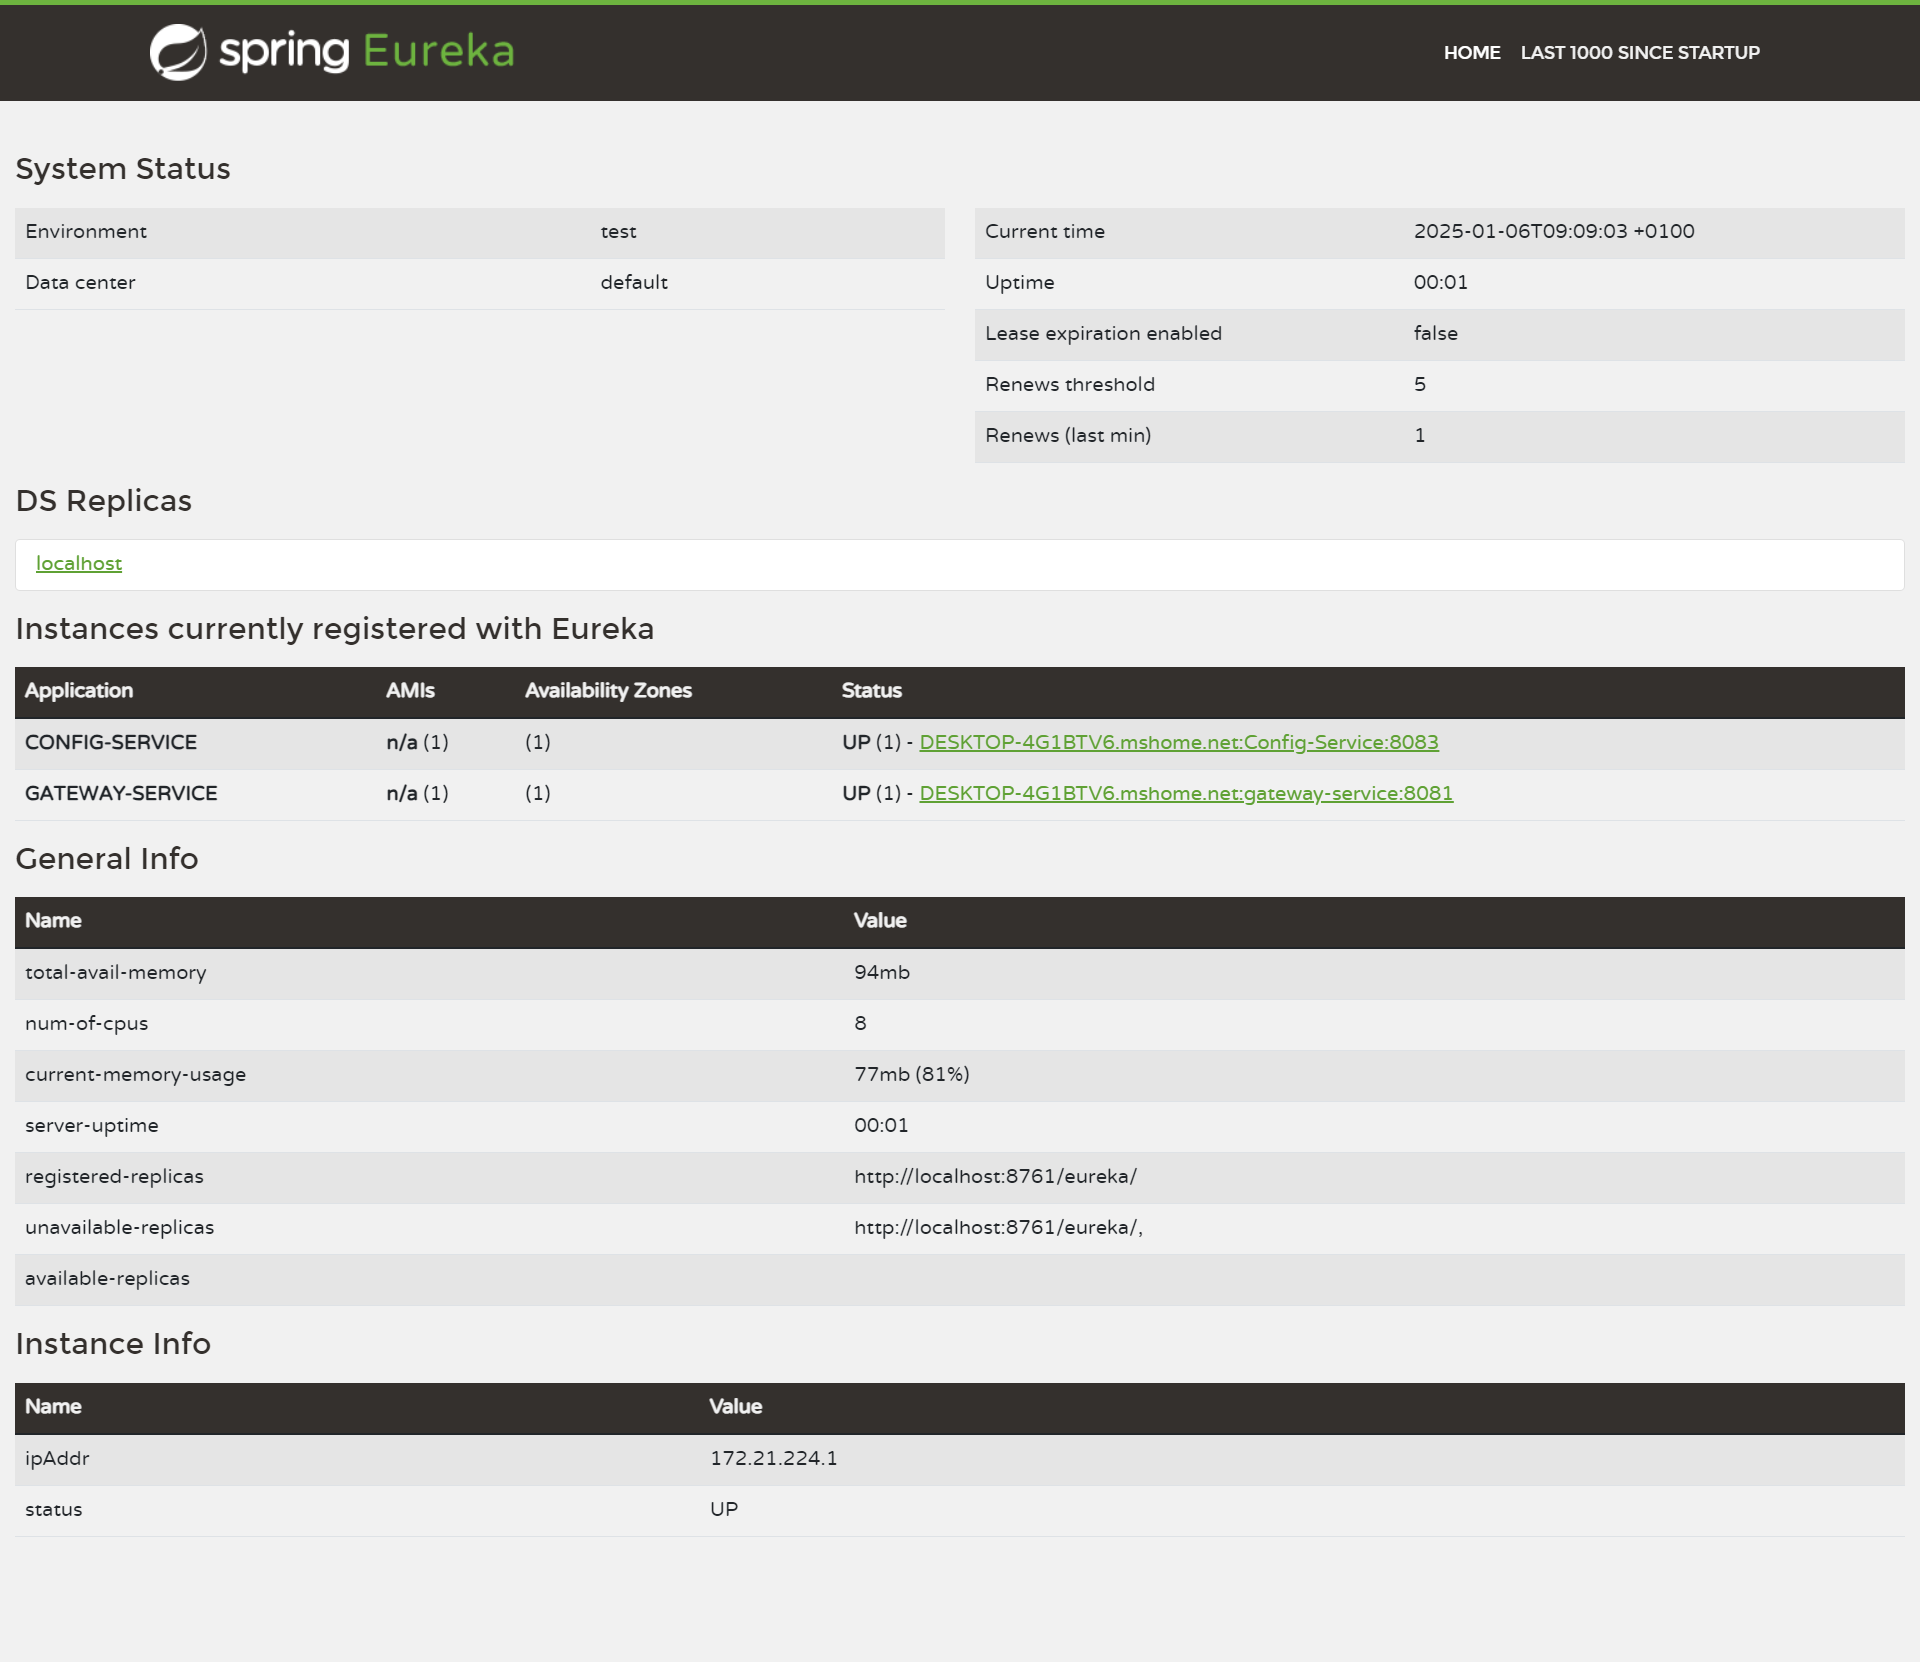
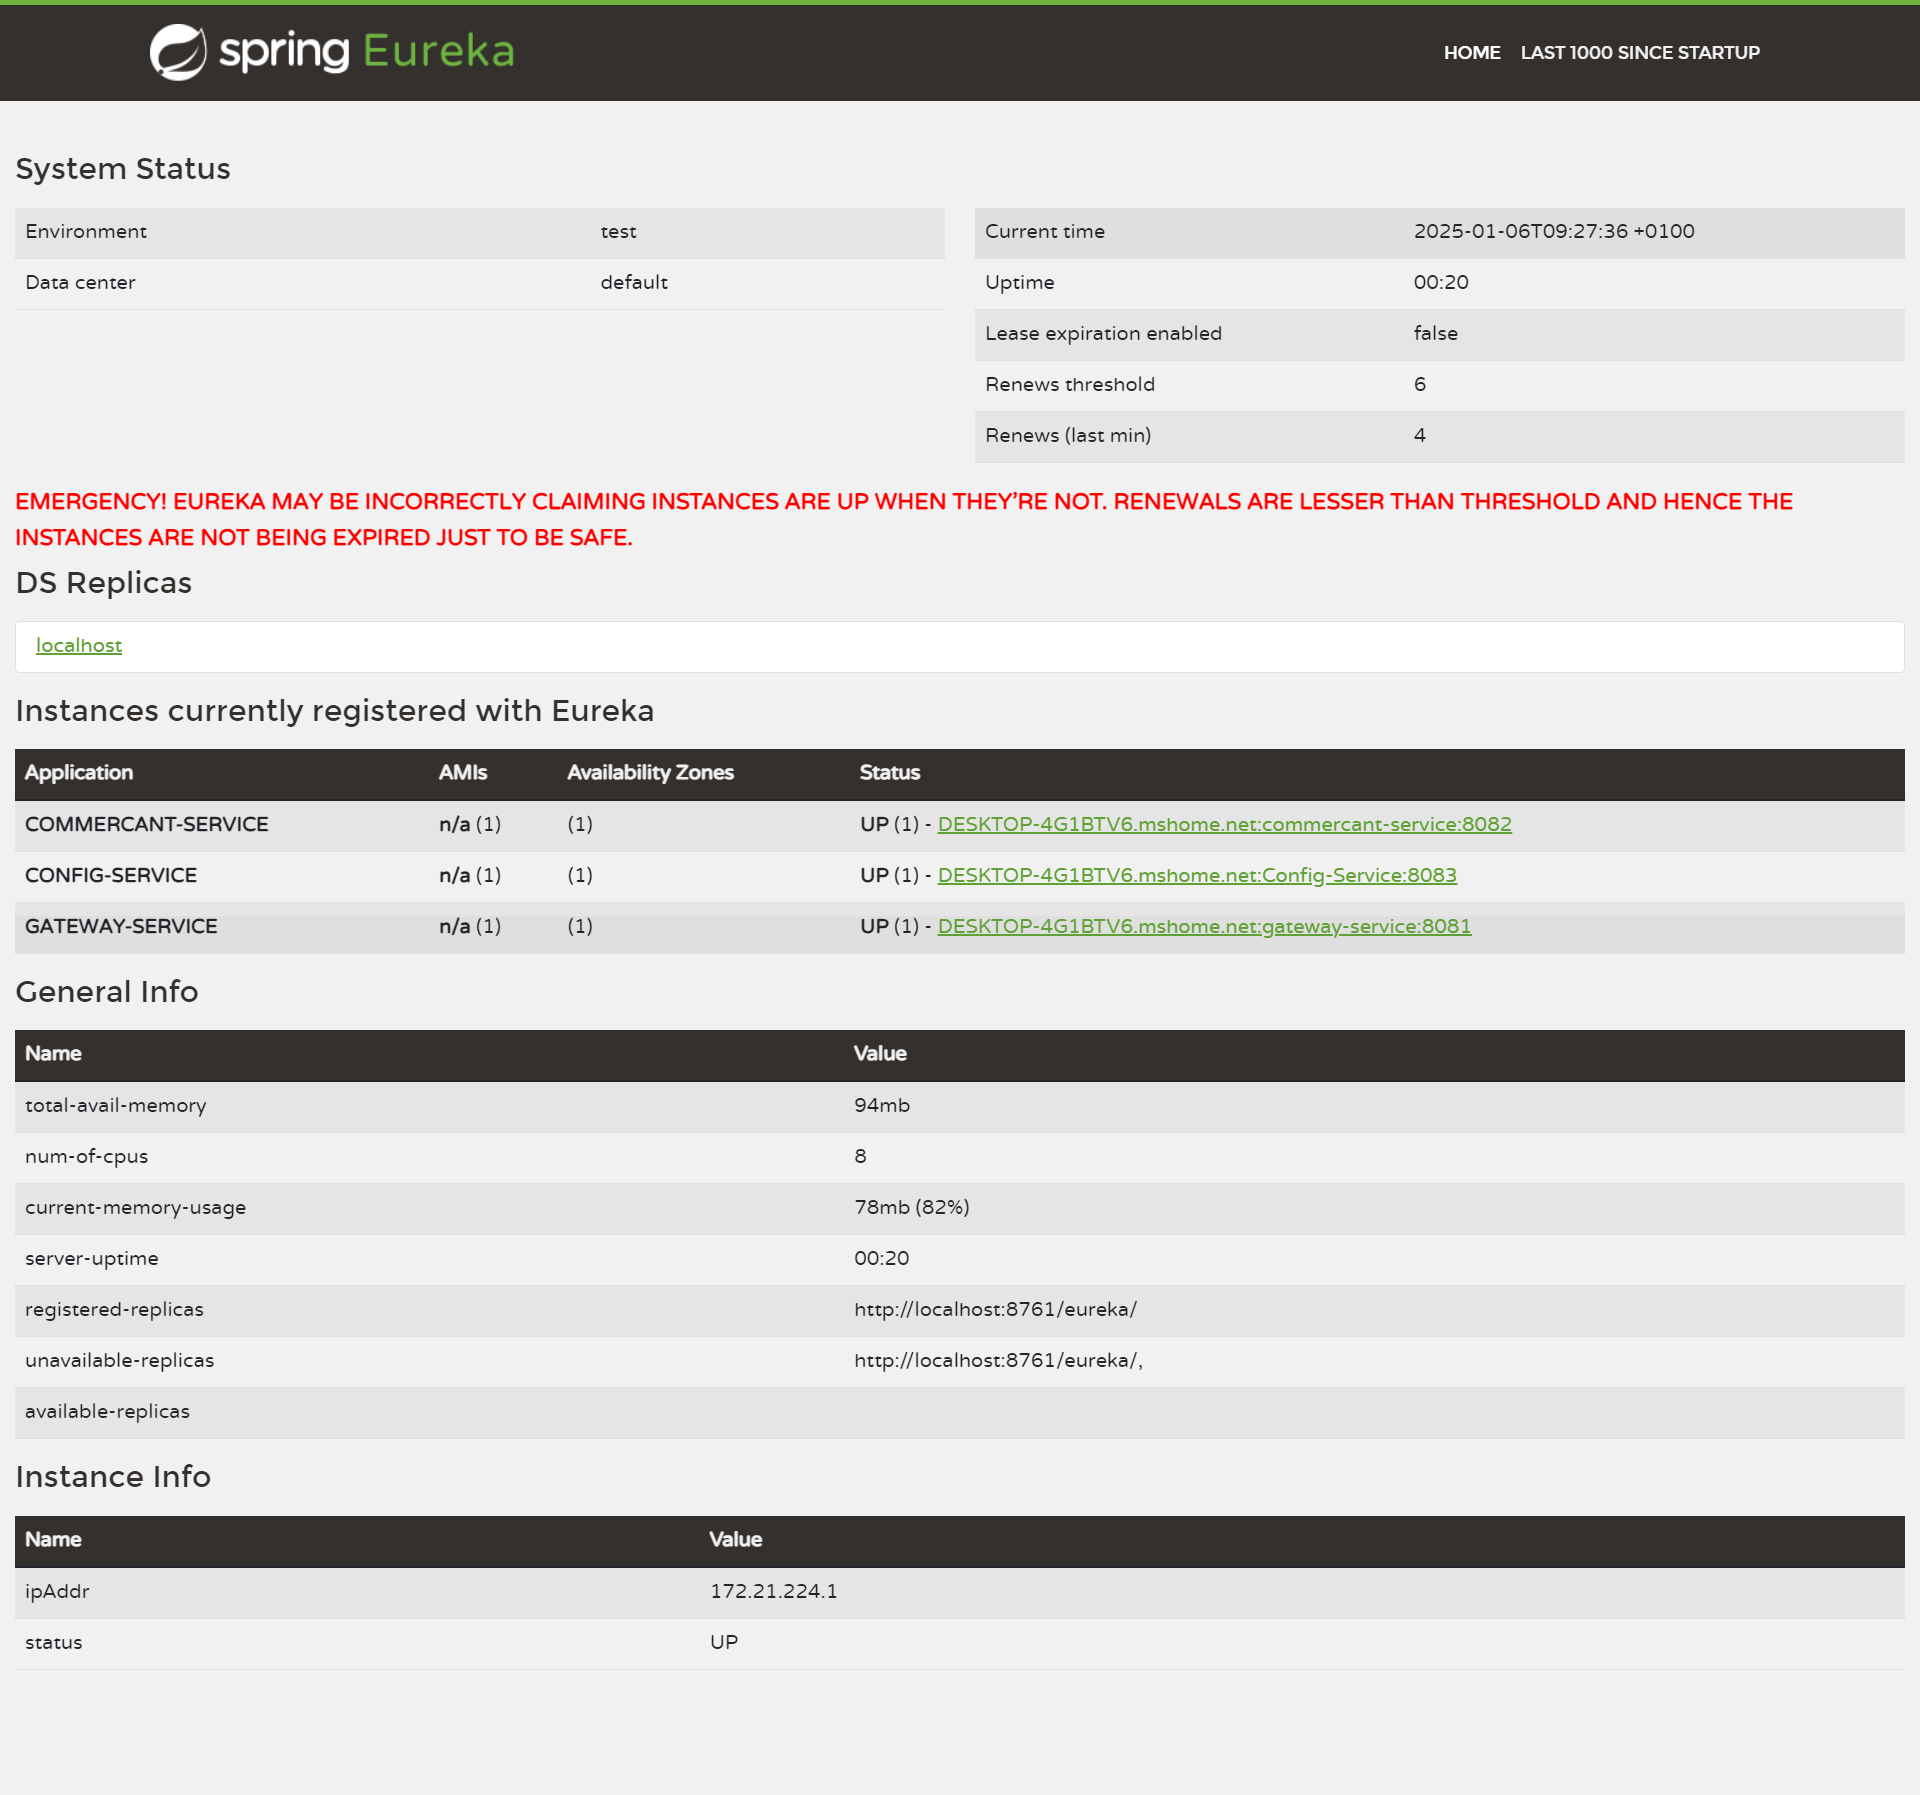
push

diff --git a/commercant-service/src/main/java/com/enset/commercant_service/web/ChequeController.java b/commercant-service/src/main/java/com/enset/commercant_service/web/ChequeController.java
@@ -1,0 +1,26 @@
+package com.enset.commercant_service.web;
+
+
+import com.enset.commercant_service.entities.Cheque;
+import com.enset.commercant_service.repositories.ChequeRepo;
+import org.springframework.web.bind.annotation.*;
+
+import java.util.List;
+
+//@RestController
+//@RequestMapping("/api")
+public class ChequeController {
+    ChequeRepo chequeRepo;
+    ChequeController (ChequeRepo chequeRepo){
+        this.chequeRepo=chequeRepo;
+    }
+    @GetMapping("/cheques")
+    List<Cheque> ChequeList(){
+        return chequeRepo.findAll();
+    }
+    @GetMapping("/cheques/{id}")
+    Cheque getProductById(@PathVariable String id){
+        return chequeRepo.findById(id).get();
+    }
+
+}

diff --git a/commercant-service/src/main/java/com/enset/commercant_service/entities/Cheque.java b/commercant-service/src/main/java/com/enset/commercant_service/entities/Cheque.java
@@ -1,0 +1,19 @@
+package com.enset.commercant_service.entities;
+import jakarta.persistence.Entity;
+import jakarta.persistence.Id;
+import lombok.*;
+@Entity
+@Data
+@AllArgsConstructor
+@NoArgsConstructor
+@ToString
+public class Cheque {
+    @Id
+    private String id;
+    private String numeroCheque;
+    private String codeBanque;
+    private String numeroCompte;
+    private String nomClient;
+    private Double montant;
+    private boolean estCertifie;
+}

diff --git a/commercant-service/src/main/java/com/enset/commercant_service/repositories/ChequeRepo.java b/commercant-service/src/main/java/com/enset/commercant_service/repositories/ChequeRepo.java
@@ -1,0 +1,9 @@
+package com.enset.commercant_service.repositories;
+
+import com.enset.commercant_service.entities.Cheque;
+import org.springframework.data.jpa.repository.JpaRepository;
+import org.springframework.data.rest.core.annotation.RepositoryRestResource;
+
+@RepositoryRestResource
+public interface ChequeRepo extends JpaRepository<Cheque, String> {
+}
